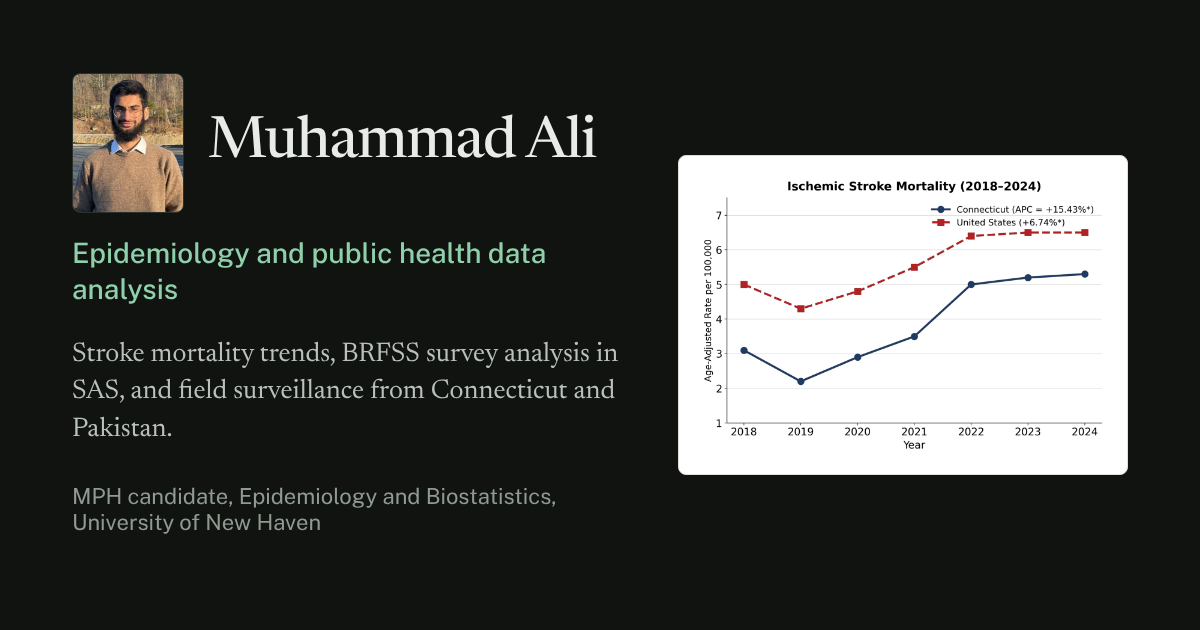
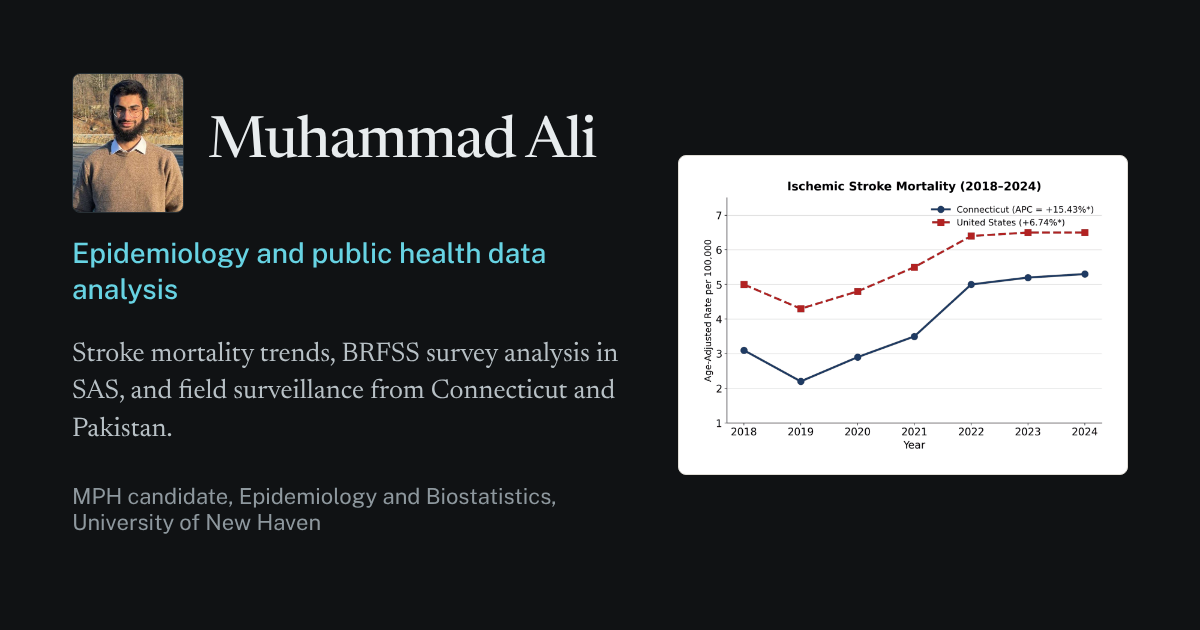
Swap green accent for cyan
Claude-Session: https://claude.ai/code/session_016i26rsmwUngHmNryb4VrzG

Changed region(s): [[0.0617, 0.3921, 0.4625, 0.4222], [0.0617, 0.4524, 0.1542, 0.4825]]

diff --git a/assets/css/site.css b/assets/css/site.css
@@ -1,5 +1,5 @@
 /* Muhammad Ali, portfolio stylesheet
-   Dark theme: matte black base with deep green. Green marks the primary series in charts
+   Dark theme: matte black base with cyan. Cyan marks the primary series in charts
    and every interactive element. Original analysis figures sit on light plates. */
 
 @font-face { font-family: "Newsreader"; font-style: normal; font-weight: 200 800; font-display: swap; src: url(../fonts/newsreader-latin-opsz-normal.woff2) format("woff2"); }
@@ -9,20 +9,20 @@
 
 :root {
   color-scheme: dark;
-  --paper: #111311;
-  --surface: #171A17;
-  --panel: #1E231F;
-  --plate: #F4F5F1;
-  --ink: #E8ECE8;
-  --ink-2: #B9C2BA;
-  --muted: #8F9A91;
-  --rule: #2A312B;
-  --accent: #2E6B4C;
-  --accent-deep: #24573D;
-  --accent-tint: #1A2A20;
-  --accent-text: #8FD0AA;
-  --mark: #8FD0AA;
-  --code-bg: #0B0D0B;
+  --paper: #101214;
+  --surface: #161A1C;
+  --panel: #1C2226;
+  --plate: #F3F5F6;
+  --ink: #E8ECEE;
+  --ink-2: #B8C1C6;
+  --muted: #8E989E;
+  --rule: #283035;
+  --accent: #0E7490;
+  --accent-deep: #155E75;
+  --accent-tint: #0F2A33;
+  --accent-text: #67D3E3;
+  --mark: #67D3E3;
+  --code-bg: #0A0C0D;
 
   --serif: "Newsreader", "Iowan Old Style", Georgia, serif;
   --sans: "Public Sans", "Segoe UI", system-ui, sans-serif;
@@ -136,7 +136,7 @@ p { margin: 0 0 1em; }
 }
 .btn-primary { background: var(--accent); color: #fff; }
 .btn-primary:hover { background: var(--accent-deep); color: #fff; }
-.btn-quiet { background: transparent; color: var(--accent-text); border-color: #3E5A48; }
+.btn-quiet { background: transparent; color: var(--accent-text); border-color: #2C5662; }
 .btn-quiet:hover { background: var(--accent-tint); color: var(--ink); }
 
 /* ---------- Hero: profile card on the left, introduction on the right ---------- */
@@ -286,12 +286,12 @@ details.data-view[open] summary { margin-bottom: .4rem; }
 
 /* Code */
 pre.code {
-  background: var(--code-bg); color: #DDE5DE; border: 1px solid var(--rule); border-radius: var(--radius);
+  background: var(--code-bg); color: #DCE5E8; border: 1px solid var(--rule); border-radius: var(--radius);
   padding: 1rem 1.1rem; overflow-x: auto; font: 400 .84rem/1.6 var(--mono);
   margin: 1rem 0 1.4rem; tab-size: 4;
 }
-pre.code .c { color: #7F9A88; }
-pre.code .k { color: #9FD8B4; }
+pre.code .c { color: #7E98A2; }
+pre.code .k { color: #8FE3F0; }
 code { font-family: var(--mono); font-size: .9em; background: var(--panel); padding: .05em .3em; border-radius: 3px; }
 pre code { background: none; padding: 0; font-size: inherit; }
 
@@ -350,7 +350,7 @@ pre code { background: none; padding: 0; font-size: inherit; }
 
 @media print {
   @page { margin: 0.55in; }
-  :root { --paper: #fff; --ink: #111; --ink-2: #333; --muted: #555; --rule: #ccc; --accent-text: #1F4D36; }
+  :root { --paper: #fff; --ink: #111; --ink-2: #333; --muted: #555; --rule: #ccc; --accent-text: #0E5566; }
   body { background: #fff; color: #111; font-size: 10.5pt; line-height: 1.4; }
   .site-header, .site-footer, .resume-tools, .skip, .no-print { display: none !important; }
   .resume { padding: 0; max-width: none; }
@@ -376,7 +376,7 @@ pre code { background: none; padding: 0; font-size: inherit; }
 .forest-track { position: relative; height: 22px; }
 .forest-track::before { /* reference line at OR = 1 */
   content: ""; position: absolute; top: -8px; bottom: -8px; left: var(--ref);
-  border-left: 1px dashed #5E6B61;
+  border-left: 1px dashed #5A6A72;
 }
 .forest-ci { position: absolute; top: 50%; height: 2px; margin-top: -1px; background: var(--mark); left: var(--lo); width: calc(var(--hi) - var(--lo)); border-radius: 2px; }
 .forest-pt { position: absolute; top: 50%; left: var(--pt); width: 12px; height: 12px; margin: -6px 0 0 -6px; border-radius: 50%; background: var(--mark); box-shadow: 0 0 0 2px var(--surface); }
@@ -419,7 +419,7 @@ pre code { background: none; padding: 0; font-size: inherit; }
 .more h3 a:hover { color: var(--accent-text); }
 .portrait-lg { width: 100%; max-width: 18rem; aspect-ratio: 4 / 5; object-fit: cover; border-radius: 8px; border: 1px solid var(--rule); margin-bottom: 1.2rem; display: block; }
 .featured .note h2 { margin-bottom: .9rem; }
-.brand-mark { border-radius: 7px; box-shadow: 0 0 0 1px #34433A; }
+.brand-mark { border-radius: 7px; box-shadow: 0 0 0 1px #2E434B; }
 
 /* =====================================================================
    Editorial layer (October 2026 redesign)

diff --git a/work/arsenic-ischemic-stroke.html b/work/arsenic-ischemic-stroke.html
@@ -14,10 +14,10 @@
 <meta property="og:image:width" content="1200">
 <meta property="og:image:height" content="630">
 <meta name="twitter:card" content="summary_large_image">
-<meta name="theme-color" content="#111311">
-<link rel="icon" href="../assets/img/icon-ma-h.svg" type="image/svg+xml">
-<link rel="icon" href="../assets/img/icon-ma-h-32.png" type="image/png" sizes="32x32">
-<link rel="apple-touch-icon" href="../apple-touch-icon-h.png">
+<meta name="theme-color" content="#101214">
+<link rel="icon" href="../assets/img/icon-ma-c.svg" type="image/svg+xml">
+<link rel="icon" href="../assets/img/icon-ma-c-32.png" type="image/png" sizes="32x32">
+<link rel="apple-touch-icon" href="../apple-touch-icon-c.png">
 <link rel="preload" href="../assets/fonts/newsreader-latin-opsz-normal.woff2" as="font" type="font/woff2" crossorigin>
 <link rel="preload" href="../assets/fonts/public-sans-latin-wght-normal.woff2" as="font" type="font/woff2" crossorigin>
 <link rel="stylesheet" href="../assets/css/site.css">
@@ -26,7 +26,7 @@
 <a class="skip" href="#main">Skip to content</a>
 <header class="site-header">
   <div class="wrap">
-    <a class="brand" href="../index.html"><svg class="brand-mark" viewBox="0 0 32 32" aria-hidden="true"><rect width="32" height="32" rx="7" fill="#111311"/><path fill="#8FD0AA" transform="translate(2.241 21.965) scale(0.00825 -0.00825)" d="M135 0V1446H713L947 564L1183 1446H1759V0H1369V1048L1087 0H807L524 1048V0Z"/><path fill="#8FD0AA" transform="translate(16.666 21.965) scale(0.00825 -0.00825)" d="M30 0 542 1446H940L1452 0H1068L972 280H516L418 0ZM598 612H884L742 1074Z"/></svg><span class="brand-name">Muhammad Ali</span></a>
+    <a class="brand" href="../index.html"><svg class="brand-mark" viewBox="0 0 32 32" aria-hidden="true"><rect width="32" height="32" rx="7" fill="#101214"/><path fill="#67D3E3" transform="translate(2.241 21.965) scale(0.00825 -0.00825)" d="M135 0V1446H713L947 564L1183 1446H1759V0H1369V1048L1087 0H807L524 1048V0Z"/><path fill="#67D3E3" transform="translate(16.666 21.965) scale(0.00825 -0.00825)" d="M30 0 542 1446H940L1452 0H1068L972 280H516L418 0ZM598 612H884L742 1074Z"/></svg><span class="brand-name">Muhammad Ali</span></a>
     <button class="nav-toggle" type="button" aria-expanded="false" aria-controls="site-nav">Menu</button>
     <nav class="nav" id="site-nav" aria-label="Main"><ul><li><a href="../work/" aria-current="page">Work</a></li><li><a href="../experience.html">Experience</a></li><li><a href="../about.html">About</a></li><li><a href="../resume.html">Résumé</a></li></ul></nav>
   </div>

diff --git a/work/brfss-heart-disease.html b/work/brfss-heart-disease.html
@@ -14,10 +14,10 @@
 <meta property="og:image:width" content="1200">
 <meta property="og:image:height" content="630">
 <meta name="twitter:card" content="summary_large_image">
-<meta name="theme-color" content="#111311">
-<link rel="icon" href="../assets/img/icon-ma-h.svg" type="image/svg+xml">
-<link rel="icon" href="../assets/img/icon-ma-h-32.png" type="image/png" sizes="32x32">
-<link rel="apple-touch-icon" href="../apple-touch-icon-h.png">
+<meta name="theme-color" content="#101214">
+<link rel="icon" href="../assets/img/icon-ma-c.svg" type="image/svg+xml">
+<link rel="icon" href="../assets/img/icon-ma-c-32.png" type="image/png" sizes="32x32">
+<link rel="apple-touch-icon" href="../apple-touch-icon-c.png">
 <link rel="preload" href="../assets/fonts/newsreader-latin-opsz-normal.woff2" as="font" type="font/woff2" crossorigin>
 <link rel="preload" href="../assets/fonts/public-sans-latin-wght-normal.woff2" as="font" type="font/woff2" crossorigin>
 <link rel="stylesheet" href="../assets/css/site.css">
@@ -26,7 +26,7 @@
 <a class="skip" href="#main">Skip to content</a>
 <header class="site-header">
   <div class="wrap">
-    <a class="brand" href="../index.html"><svg class="brand-mark" viewBox="0 0 32 32" aria-hidden="true"><rect width="32" height="32" rx="7" fill="#111311"/><path fill="#8FD0AA" transform="translate(2.241 21.965) scale(0.00825 -0.00825)" d="M135 0V1446H713L947 564L1183 1446H1759V0H1369V1048L1087 0H807L524 1048V0Z"/><path fill="#8FD0AA" transform="translate(16.666 21.965) scale(0.00825 -0.00825)" d="M30 0 542 1446H940L1452 0H1068L972 280H516L418 0ZM598 612H884L742 1074Z"/></svg><span class="brand-name">Muhammad Ali</span></a>
+    <a class="brand" href="../index.html"><svg class="brand-mark" viewBox="0 0 32 32" aria-hidden="true"><rect width="32" height="32" rx="7" fill="#101214"/><path fill="#67D3E3" transform="translate(2.241 21.965) scale(0.00825 -0.00825)" d="M135 0V1446H713L947 564L1183 1446H1759V0H1369V1048L1087 0H807L524 1048V0Z"/><path fill="#67D3E3" transform="translate(16.666 21.965) scale(0.00825 -0.00825)" d="M30 0 542 1446H940L1452 0H1068L972 280H516L418 0ZM598 612H884L742 1074Z"/></svg><span class="brand-name">Muhammad Ali</span></a>
     <button class="nav-toggle" type="button" aria-expanded="false" aria-controls="site-nav">Menu</button>
     <nav class="nav" id="site-nav" aria-label="Main"><ul><li><a href="../work/" aria-current="page">Work</a></li><li><a href="../experience.html">Experience</a></li><li><a href="../about.html">About</a></li><li><a href="../resume.html">Résumé</a></li></ul></nav>
   </div>

diff --git a/work/ct-stroke-mortality.html b/work/ct-stroke-mortality.html
@@ -14,10 +14,10 @@
 <meta property="og:image:width" content="1200">
 <meta property="og:image:height" content="630">
 <meta name="twitter:card" content="summary_large_image">
-<meta name="theme-color" content="#111311">
-<link rel="icon" href="../assets/img/icon-ma-h.svg" type="image/svg+xml">
-<link rel="icon" href="../assets/img/icon-ma-h-32.png" type="image/png" sizes="32x32">
-<link rel="apple-touch-icon" href="../apple-touch-icon-h.png">
+<meta name="theme-color" content="#101214">
+<link rel="icon" href="../assets/img/icon-ma-c.svg" type="image/svg+xml">
+<link rel="icon" href="../assets/img/icon-ma-c-32.png" type="image/png" sizes="32x32">
+<link rel="apple-touch-icon" href="../apple-touch-icon-c.png">
 <link rel="preload" href="../assets/fonts/newsreader-latin-opsz-normal.woff2" as="font" type="font/woff2" crossorigin>
 <link rel="preload" href="../assets/fonts/public-sans-latin-wght-normal.woff2" as="font" type="font/woff2" crossorigin>
 <link rel="stylesheet" href="../assets/css/site.css">
@@ -26,7 +26,7 @@
 <a class="skip" href="#main">Skip to content</a>
 <header class="site-header">
   <div class="wrap">
-    <a class="brand" href="../index.html"><svg class="brand-mark" viewBox="0 0 32 32" aria-hidden="true"><rect width="32" height="32" rx="7" fill="#111311"/><path fill="#8FD0AA" transform="translate(2.241 21.965) scale(0.00825 -0.00825)" d="M135 0V1446H713L947 564L1183 1446H1759V0H1369V1048L1087 0H807L524 1048V0Z"/><path fill="#8FD0AA" transform="translate(16.666 21.965) scale(0.00825 -0.00825)" d="M30 0 542 1446H940L1452 0H1068L972 280H516L418 0ZM598 612H884L742 1074Z"/></svg><span class="brand-name">Muhammad Ali</span></a>
+    <a class="brand" href="../index.html"><svg class="brand-mark" viewBox="0 0 32 32" aria-hidden="true"><rect width="32" height="32" rx="7" fill="#101214"/><path fill="#67D3E3" transform="translate(2.241 21.965) scale(0.00825 -0.00825)" d="M135 0V1446H713L947 564L1183 1446H1759V0H1369V1048L1087 0H807L524 1048V0Z"/><path fill="#67D3E3" transform="translate(16.666 21.965) scale(0.00825 -0.00825)" d="M30 0 542 1446H940L1452 0H1068L972 280H516L418 0ZM598 612H884L742 1074Z"/></svg><span class="brand-name">Muhammad Ali</span></a>
     <button class="nav-toggle" type="button" aria-expanded="false" aria-controls="site-nav">Menu</button>
     <nav class="nav" id="site-nav" aria-label="Main"><ul><li><a href="../work/" aria-current="page">Work</a></li><li><a href="../experience.html">Experience</a></li><li><a href="../about.html">About</a></li><li><a href="../resume.html">Résumé</a></li></ul></nav>
   </div>

diff --git a/work/index.html b/work/index.html
@@ -14,10 +14,10 @@
 <meta property="og:image:width" content="1200">
 <meta property="og:image:height" content="630">
 <meta name="twitter:card" content="summary_large_image">
-<meta name="theme-color" content="#111311">
-<link rel="icon" href="../assets/img/icon-ma-h.svg" type="image/svg+xml">
-<link rel="icon" href="../assets/img/icon-ma-h-32.png" type="image/png" sizes="32x32">
-<link rel="apple-touch-icon" href="../apple-touch-icon-h.png">
+<meta name="theme-color" content="#101214">
+<link rel="icon" href="../assets/img/icon-ma-c.svg" type="image/svg+xml">
+<link rel="icon" href="../assets/img/icon-ma-c-32.png" type="image/png" sizes="32x32">
+<link rel="apple-touch-icon" href="../apple-touch-icon-c.png">
 <link rel="preload" href="../assets/fonts/newsreader-latin-opsz-normal.woff2" as="font" type="font/woff2" crossorigin>
 <link rel="preload" href="../assets/fonts/public-sans-latin-wght-normal.woff2" as="font" type="font/woff2" crossorigin>
 <link rel="stylesheet" href="../assets/css/site.css">
@@ -26,7 +26,7 @@
 <a class="skip" href="#main">Skip to content</a>
 <header class="site-header">
   <div class="wrap">
-    <a class="brand" href="../index.html"><svg class="brand-mark" viewBox="0 0 32 32" aria-hidden="true"><rect width="32" height="32" rx="7" fill="#111311"/><path fill="#8FD0AA" transform="translate(2.241 21.965) scale(0.00825 -0.00825)" d="M135 0V1446H713L947 564L1183 1446H1759V0H1369V1048L1087 0H807L524 1048V0Z"/><path fill="#8FD0AA" transform="translate(16.666 21.965) scale(0.00825 -0.00825)" d="M30 0 542 1446H940L1452 0H1068L972 280H516L418 0ZM598 612H884L742 1074Z"/></svg><span class="brand-name">Muhammad Ali</span></a>
+    <a class="brand" href="../index.html"><svg class="brand-mark" viewBox="0 0 32 32" aria-hidden="true"><rect width="32" height="32" rx="7" fill="#101214"/><path fill="#67D3E3" transform="translate(2.241 21.965) scale(0.00825 -0.00825)" d="M135 0V1446H713L947 564L1183 1446H1759V0H1369V1048L1087 0H807L524 1048V0Z"/><path fill="#67D3E3" transform="translate(16.666 21.965) scale(0.00825 -0.00825)" d="M30 0 542 1446H940L1452 0H1068L972 280H516L418 0ZM598 612H884L742 1074Z"/></svg><span class="brand-name">Muhammad Ali</span></a>
     <button class="nav-toggle" type="button" aria-expanded="false" aria-controls="site-nav">Menu</button>
     <nav class="nav" id="site-nav" aria-label="Main"><ul><li><a href="../work/" aria-current="page">Work</a></li><li><a href="../experience.html">Experience</a></li><li><a href="../about.html">About</a></li><li><a href="../resume.html">Résumé</a></li></ul></nav>
   </div>

diff --git a/work/telemedicine-thesis.html b/work/telemedicine-thesis.html
@@ -14,10 +14,10 @@
 <meta property="og:image:width" content="1200">
 <meta property="og:image:height" content="630">
 <meta name="twitter:card" content="summary_large_image">
-<meta name="theme-color" content="#111311">
-<link rel="icon" href="../assets/img/icon-ma-h.svg" type="image/svg+xml">
-<link rel="icon" href="../assets/img/icon-ma-h-32.png" type="image/png" sizes="32x32">
-<link rel="apple-touch-icon" href="../apple-touch-icon-h.png">
+<meta name="theme-color" content="#101214">
+<link rel="icon" href="../assets/img/icon-ma-c.svg" type="image/svg+xml">
+<link rel="icon" href="../assets/img/icon-ma-c-32.png" type="image/png" sizes="32x32">
+<link rel="apple-touch-icon" href="../apple-touch-icon-c.png">
 <link rel="preload" href="../assets/fonts/newsreader-latin-opsz-normal.woff2" as="font" type="font/woff2" crossorigin>
 <link rel="preload" href="../assets/fonts/public-sans-latin-wght-normal.woff2" as="font" type="font/woff2" crossorigin>
 <link rel="stylesheet" href="../assets/css/site.css">
@@ -26,7 +26,7 @@
 <a class="skip" href="#main">Skip to content</a>
 <header class="site-header">
   <div class="wrap">
-    <a class="brand" href="../index.html"><svg class="brand-mark" viewBox="0 0 32 32" aria-hidden="true"><rect width="32" height="32" rx="7" fill="#111311"/><path fill="#8FD0AA" transform="translate(2.241 21.965) scale(0.00825 -0.00825)" d="M135 0V1446H713L947 564L1183 1446H1759V0H1369V1048L1087 0H807L524 1048V0Z"/><path fill="#8FD0AA" transform="translate(16.666 21.965) scale(0.00825 -0.00825)" d="M30 0 542 1446H940L1452 0H1068L972 280H516L418 0ZM598 612H884L742 1074Z"/></svg><span class="brand-name">Muhammad Ali</span></a>
+    <a class="brand" href="../index.html"><svg class="brand-mark" viewBox="0 0 32 32" aria-hidden="true"><rect width="32" height="32" rx="7" fill="#101214"/><path fill="#67D3E3" transform="translate(2.241 21.965) scale(0.00825 -0.00825)" d="M135 0V1446H713L947 564L1183 1446H1759V0H1369V1048L1087 0H807L524 1048V0Z"/><path fill="#67D3E3" transform="translate(16.666 21.965) scale(0.00825 -0.00825)" d="M30 0 542 1446H940L1452 0H1068L972 280H516L418 0ZM598 612H884L742 1074Z"/></svg><span class="brand-name">Muhammad Ali</span></a>
     <button class="nav-toggle" type="button" aria-expanded="false" aria-controls="site-nav">Menu</button>
     <nav class="nav" id="site-nav" aria-label="Main"><ul><li><a href="../work/" aria-current="page">Work</a></li><li><a href="../experience.html">Experience</a></li><li><a href="../about.html">About</a></li><li><a href="../resume.html">Résumé</a></li></ul></nav>
   </div>

diff --git a/about.html b/about.html
@@ -14,10 +14,10 @@
 <meta property="og:image:width" content="1200">
 <meta property="og:image:height" content="630">
 <meta name="twitter:card" content="summary_large_image">
-<meta name="theme-color" content="#111311">
-<link rel="icon" href="assets/img/icon-ma-h.svg" type="image/svg+xml">
-<link rel="icon" href="assets/img/icon-ma-h-32.png" type="image/png" sizes="32x32">
-<link rel="apple-touch-icon" href="apple-touch-icon-h.png">
+<meta name="theme-color" content="#101214">
+<link rel="icon" href="assets/img/icon-ma-c.svg" type="image/svg+xml">
+<link rel="icon" href="assets/img/icon-ma-c-32.png" type="image/png" sizes="32x32">
+<link rel="apple-touch-icon" href="apple-touch-icon-c.png">
 <link rel="preload" href="assets/fonts/newsreader-latin-opsz-normal.woff2" as="font" type="font/woff2" crossorigin>
 <link rel="preload" href="assets/fonts/public-sans-latin-wght-normal.woff2" as="font" type="font/woff2" crossorigin>
 <link rel="stylesheet" href="assets/css/site.css">
@@ -26,7 +26,7 @@
 <a class="skip" href="#main">Skip to content</a>
 <header class="site-header">
   <div class="wrap">
-    <a class="brand" href="index.html"><svg class="brand-mark" viewBox="0 0 32 32" aria-hidden="true"><rect width="32" height="32" rx="7" fill="#111311"/><path fill="#8FD0AA" transform="translate(2.241 21.965) scale(0.00825 -0.00825)" d="M135 0V1446H713L947 564L1183 1446H1759V0H1369V1048L1087 0H807L524 1048V0Z"/><path fill="#8FD0AA" transform="translate(16.666 21.965) scale(0.00825 -0.00825)" d="M30 0 542 1446H940L1452 0H1068L972 280H516L418 0ZM598 612H884L742 1074Z"/></svg><span class="brand-name">Muhammad Ali</span></a>
+    <a class="brand" href="index.html"><svg class="brand-mark" viewBox="0 0 32 32" aria-hidden="true"><rect width="32" height="32" rx="7" fill="#101214"/><path fill="#67D3E3" transform="translate(2.241 21.965) scale(0.00825 -0.00825)" d="M135 0V1446H713L947 564L1183 1446H1759V0H1369V1048L1087 0H807L524 1048V0Z"/><path fill="#67D3E3" transform="translate(16.666 21.965) scale(0.00825 -0.00825)" d="M30 0 542 1446H940L1452 0H1068L972 280H516L418 0ZM598 612H884L742 1074Z"/></svg><span class="brand-name">Muhammad Ali</span></a>
     <button class="nav-toggle" type="button" aria-expanded="false" aria-controls="site-nav">Menu</button>
     <nav class="nav" id="site-nav" aria-label="Main"><ul><li><a href="work/">Work</a></li><li><a href="experience.html">Experience</a></li><li><a href="about.html" aria-current="page">About</a></li><li><a href="resume.html">Résumé</a></li></ul></nav>
   </div>

diff --git a/experience.html b/experience.html
@@ -14,10 +14,10 @@
 <meta property="og:image:width" content="1200">
 <meta property="og:image:height" content="630">
 <meta name="twitter:card" content="summary_large_image">
-<meta name="theme-color" content="#111311">
-<link rel="icon" href="assets/img/icon-ma-h.svg" type="image/svg+xml">
-<link rel="icon" href="assets/img/icon-ma-h-32.png" type="image/png" sizes="32x32">
-<link rel="apple-touch-icon" href="apple-touch-icon-h.png">
+<meta name="theme-color" content="#101214">
+<link rel="icon" href="assets/img/icon-ma-c.svg" type="image/svg+xml">
+<link rel="icon" href="assets/img/icon-ma-c-32.png" type="image/png" sizes="32x32">
+<link rel="apple-touch-icon" href="apple-touch-icon-c.png">
 <link rel="preload" href="assets/fonts/newsreader-latin-opsz-normal.woff2" as="font" type="font/woff2" crossorigin>
 <link rel="preload" href="assets/fonts/public-sans-latin-wght-normal.woff2" as="font" type="font/woff2" crossorigin>
 <link rel="stylesheet" href="assets/css/site.css">
@@ -26,7 +26,7 @@
 <a class="skip" href="#main">Skip to content</a>
 <header class="site-header">
   <div class="wrap">
-    <a class="brand" href="index.html"><svg class="brand-mark" viewBox="0 0 32 32" aria-hidden="true"><rect width="32" height="32" rx="7" fill="#111311"/><path fill="#8FD0AA" transform="translate(2.241 21.965) scale(0.00825 -0.00825)" d="M135 0V1446H713L947 564L1183 1446H1759V0H1369V1048L1087 0H807L524 1048V0Z"/><path fill="#8FD0AA" transform="translate(16.666 21.965) scale(0.00825 -0.00825)" d="M30 0 542 1446H940L1452 0H1068L972 280H516L418 0ZM598 612H884L742 1074Z"/></svg><span class="brand-name">Muhammad Ali</span></a>
+    <a class="brand" href="index.html"><svg class="brand-mark" viewBox="0 0 32 32" aria-hidden="true"><rect width="32" height="32" rx="7" fill="#101214"/><path fill="#67D3E3" transform="translate(2.241 21.965) scale(0.00825 -0.00825)" d="M135 0V1446H713L947 564L1183 1446H1759V0H1369V1048L1087 0H807L524 1048V0Z"/><path fill="#67D3E3" transform="translate(16.666 21.965) scale(0.00825 -0.00825)" d="M30 0 542 1446H940L1452 0H1068L972 280H516L418 0ZM598 612H884L742 1074Z"/></svg><span class="brand-name">Muhammad Ali</span></a>
     <button class="nav-toggle" type="button" aria-expanded="false" aria-controls="site-nav">Menu</button>
     <nav class="nav" id="site-nav" aria-label="Main"><ul><li><a href="work/">Work</a></li><li><a href="experience.html" aria-current="page">Experience</a></li><li><a href="about.html">About</a></li><li><a href="resume.html">Résumé</a></li></ul></nav>
   </div>

diff --git a/resume.html b/resume.html
@@ -14,10 +14,10 @@
 <meta property="og:image:width" content="1200">
 <meta property="og:image:height" content="630">
 <meta name="twitter:card" content="summary_large_image">
-<meta name="theme-color" content="#111311">
-<link rel="icon" href="assets/img/icon-ma-h.svg" type="image/svg+xml">
-<link rel="icon" href="assets/img/icon-ma-h-32.png" type="image/png" sizes="32x32">
-<link rel="apple-touch-icon" href="apple-touch-icon-h.png">
+<meta name="theme-color" content="#101214">
+<link rel="icon" href="assets/img/icon-ma-c.svg" type="image/svg+xml">
+<link rel="icon" href="assets/img/icon-ma-c-32.png" type="image/png" sizes="32x32">
+<link rel="apple-touch-icon" href="apple-touch-icon-c.png">
 <link rel="preload" href="assets/fonts/newsreader-latin-opsz-normal.woff2" as="font" type="font/woff2" crossorigin>
 <link rel="preload" href="assets/fonts/public-sans-latin-wght-normal.woff2" as="font" type="font/woff2" crossorigin>
 <link rel="stylesheet" href="assets/css/site.css">
@@ -26,7 +26,7 @@
 <a class="skip" href="#main">Skip to content</a>
 <header class="site-header">
   <div class="wrap">
-    <a class="brand" href="index.html"><svg class="brand-mark" viewBox="0 0 32 32" aria-hidden="true"><rect width="32" height="32" rx="7" fill="#111311"/><path fill="#8FD0AA" transform="translate(2.241 21.965) scale(0.00825 -0.00825)" d="M135 0V1446H713L947 564L1183 1446H1759V0H1369V1048L1087 0H807L524 1048V0Z"/><path fill="#8FD0AA" transform="translate(16.666 21.965) scale(0.00825 -0.00825)" d="M30 0 542 1446H940L1452 0H1068L972 280H516L418 0ZM598 612H884L742 1074Z"/></svg><span class="brand-name">Muhammad Ali</span></a>
+    <a class="brand" href="index.html"><svg class="brand-mark" viewBox="0 0 32 32" aria-hidden="true"><rect width="32" height="32" rx="7" fill="#101214"/><path fill="#67D3E3" transform="translate(2.241 21.965) scale(0.00825 -0.00825)" d="M135 0V1446H713L947 564L1183 1446H1759V0H1369V1048L1087 0H807L524 1048V0Z"/><path fill="#67D3E3" transform="translate(16.666 21.965) scale(0.00825 -0.00825)" d="M30 0 542 1446H940L1452 0H1068L972 280H516L418 0ZM598 612H884L742 1074Z"/></svg><span class="brand-name">Muhammad Ali</span></a>
     <button class="nav-toggle" type="button" aria-expanded="false" aria-controls="site-nav">Menu</button>
     <nav class="nav" id="site-nav" aria-label="Main"><ul><li><a href="work/">Work</a></li><li><a href="experience.html">Experience</a></li><li><a href="about.html">About</a></li><li><a href="resume.html" aria-current="page">Résumé</a></li></ul></nav>
   </div>

diff --git a/404.html b/404.html
@@ -15,10 +15,10 @@
 <meta property="og:image:width" content="1200">
 <meta property="og:image:height" content="630">
 <meta name="twitter:card" content="summary_large_image">
-<meta name="theme-color" content="#111311">
-<link rel="icon" href="assets/img/icon-ma-h.svg" type="image/svg+xml">
-<link rel="icon" href="assets/img/icon-ma-h-32.png" type="image/png" sizes="32x32">
-<link rel="apple-touch-icon" href="apple-touch-icon-h.png">
+<meta name="theme-color" content="#101214">
+<link rel="icon" href="assets/img/icon-ma-c.svg" type="image/svg+xml">
+<link rel="icon" href="assets/img/icon-ma-c-32.png" type="image/png" sizes="32x32">
+<link rel="apple-touch-icon" href="apple-touch-icon-c.png">
 <link rel="preload" href="assets/fonts/newsreader-latin-opsz-normal.woff2" as="font" type="font/woff2" crossorigin>
 <link rel="preload" href="assets/fonts/public-sans-latin-wght-normal.woff2" as="font" type="font/woff2" crossorigin>
 <link rel="stylesheet" href="assets/css/site.css">
@@ -27,7 +27,7 @@
 <a class="skip" href="#main">Skip to content</a>
 <header class="site-header">
   <div class="wrap">
-    <a class="brand" href="index.html"><svg class="brand-mark" viewBox="0 0 32 32" aria-hidden="true"><rect width="32" height="32" rx="7" fill="#111311"/><path fill="#8FD0AA" transform="translate(2.241 21.965) scale(0.00825 -0.00825)" d="M135 0V1446H713L947 564L1183 1446H1759V0H1369V1048L1087 0H807L524 1048V0Z"/><path fill="#8FD0AA" transform="translate(16.666 21.965) scale(0.00825 -0.00825)" d="M30 0 542 1446H940L1452 0H1068L972 280H516L418 0ZM598 612H884L742 1074Z"/></svg><span class="brand-name">Muhammad Ali</span></a>
+    <a class="brand" href="index.html"><svg class="brand-mark" viewBox="0 0 32 32" aria-hidden="true"><rect width="32" height="32" rx="7" fill="#101214"/><path fill="#67D3E3" transform="translate(2.241 21.965) scale(0.00825 -0.00825)" d="M135 0V1446H713L947 564L1183 1446H1759V0H1369V1048L1087 0H807L524 1048V0Z"/><path fill="#67D3E3" transform="translate(16.666 21.965) scale(0.00825 -0.00825)" d="M30 0 542 1446H940L1452 0H1068L972 280H516L418 0ZM598 612H884L742 1074Z"/></svg><span class="brand-name">Muhammad Ali</span></a>
     <button class="nav-toggle" type="button" aria-expanded="false" aria-controls="site-nav">Menu</button>
     <nav class="nav" id="site-nav" aria-label="Main"><ul><li><a href="work/">Work</a></li><li><a href="experience.html">Experience</a></li><li><a href="about.html">About</a></li><li><a href="resume.html">Résumé</a></li></ul></nav>
   </div>

diff --git a/index.html b/index.html
@@ -14,10 +14,10 @@
 <meta property="og:image:width" content="1200">
 <meta property="og:image:height" content="630">
 <meta name="twitter:card" content="summary_large_image">
-<meta name="theme-color" content="#111311">
-<link rel="icon" href="assets/img/icon-ma-h.svg" type="image/svg+xml">
-<link rel="icon" href="assets/img/icon-ma-h-32.png" type="image/png" sizes="32x32">
-<link rel="apple-touch-icon" href="apple-touch-icon-h.png">
+<meta name="theme-color" content="#101214">
+<link rel="icon" href="assets/img/icon-ma-c.svg" type="image/svg+xml">
+<link rel="icon" href="assets/img/icon-ma-c-32.png" type="image/png" sizes="32x32">
+<link rel="apple-touch-icon" href="apple-touch-icon-c.png">
 <link rel="preload" href="assets/fonts/newsreader-latin-opsz-normal.woff2" as="font" type="font/woff2" crossorigin>
 <link rel="preload" href="assets/fonts/public-sans-latin-wght-normal.woff2" as="font" type="font/woff2" crossorigin>
 <link rel="stylesheet" href="assets/css/site.css">
@@ -26,7 +26,7 @@
 <a class="skip" href="#main">Skip to content</a>
 <header class="site-header">
   <div class="wrap">
-    <a class="brand" href="index.html"><svg class="brand-mark" viewBox="0 0 32 32" aria-hidden="true"><rect width="32" height="32" rx="7" fill="#111311"/><path fill="#8FD0AA" transform="translate(2.241 21.965) scale(0.00825 -0.00825)" d="M135 0V1446H713L947 564L1183 1446H1759V0H1369V1048L1087 0H807L524 1048V0Z"/><path fill="#8FD0AA" transform="translate(16.666 21.965) scale(0.00825 -0.00825)" d="M30 0 542 1446H940L1452 0H1068L972 280H516L418 0ZM598 612H884L742 1074Z"/></svg><span class="brand-name">Muhammad Ali</span></a>
+    <a class="brand" href="index.html"><svg class="brand-mark" viewBox="0 0 32 32" aria-hidden="true"><rect width="32" height="32" rx="7" fill="#101214"/><path fill="#67D3E3" transform="translate(2.241 21.965) scale(0.00825 -0.00825)" d="M135 0V1446H713L947 564L1183 1446H1759V0H1369V1048L1087 0H807L524 1048V0Z"/><path fill="#67D3E3" transform="translate(16.666 21.965) scale(0.00825 -0.00825)" d="M30 0 542 1446H940L1452 0H1068L972 280H516L418 0ZM598 612H884L742 1074Z"/></svg><span class="brand-name">Muhammad Ali</span></a>
     <button class="nav-toggle" type="button" aria-expanded="false" aria-controls="site-nav">Menu</button>
     <nav class="nav" id="site-nav" aria-label="Main"><ul><li><a href="work/">Work</a></li><li><a href="experience.html">Experience</a></li><li><a href="about.html">About</a></li><li><a href="resume.html">Résumé</a></li></ul></nav>
   </div>
